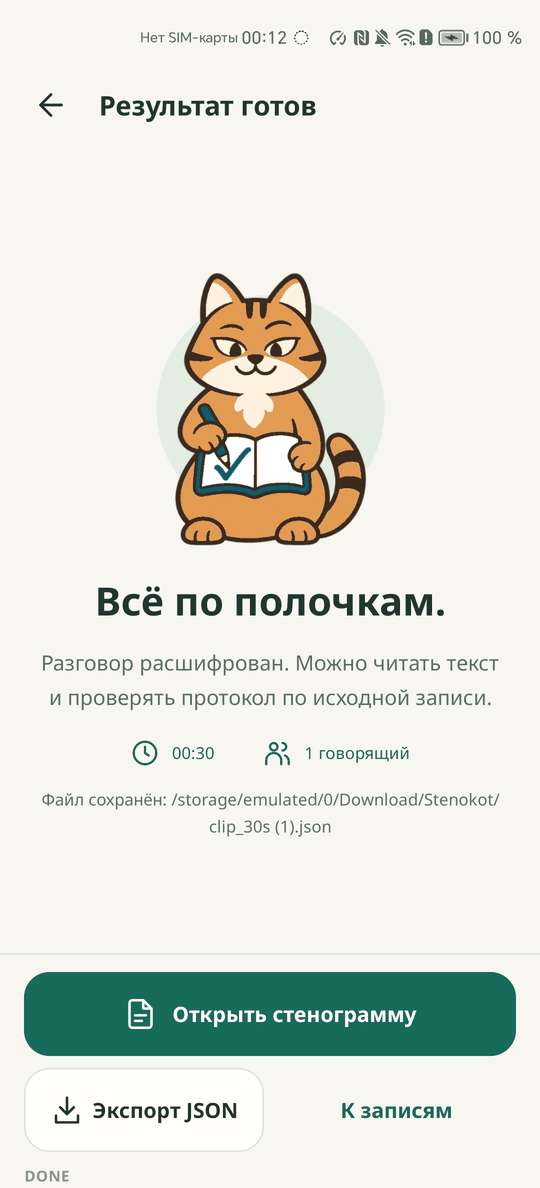
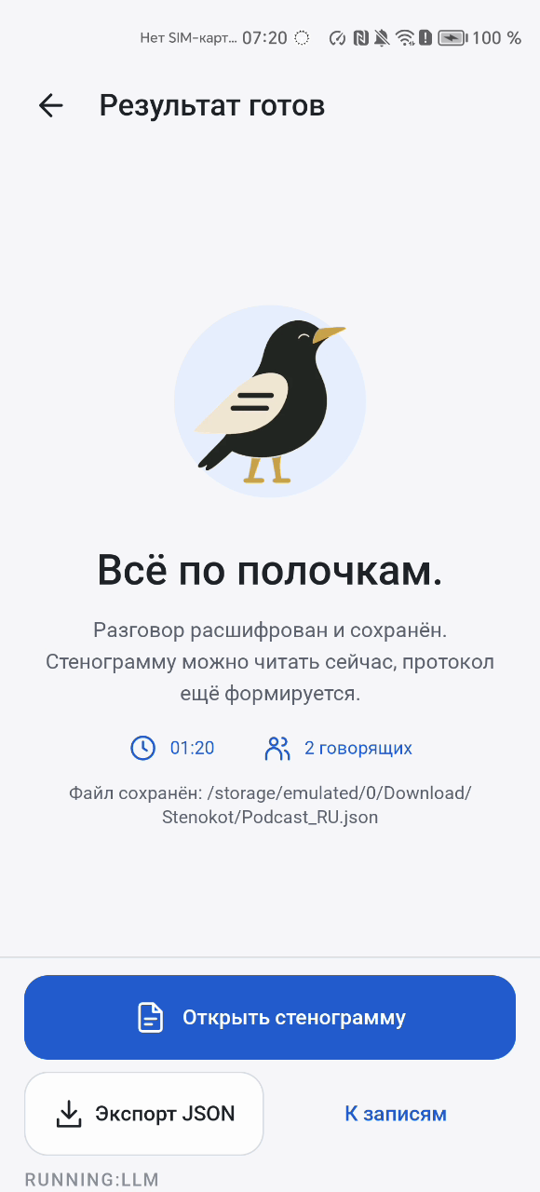
Снимки экранов Сквора вместо старых

diff --git a/README.md b/README.md
@@ -14,7 +14,15 @@
   <img src="docs/screens/01-home.png" alt="Главная: библиотека записей" width="200">
   <img src="docs/screens/02-processing.png" alt="Обработка: этап 3 из 5" width="200">
   <img src="docs/screens/04-transcript.png" alt="Стенограмма и плеер" width="200">
-  <img src="docs/screens/05-protocol.png" alt="Протокол в тёмной теме" width="200">
+  <img src="docs/screens/05-protocol.png" alt="Протокол со ссылкой на реплику" width="200">
+</p>
+
+<p align="center">
+  <img src="docs/screens/01-onboarding.png" alt="Знакомство при первом запуске" width="160">
+  <img src="docs/screens/03-done.png" alt="Результат готов" width="160">
+  <img src="docs/screens/06-edit.png" alt="Правка реплики" width="160">
+  <img src="docs/screens/07-english.png" alt="Английская запись" width="160">
+  <img src="docs/screens/09-settings.png" alt="Настройки и помощь" width="160">
 </p>
 
 ## Отчётные материалы
